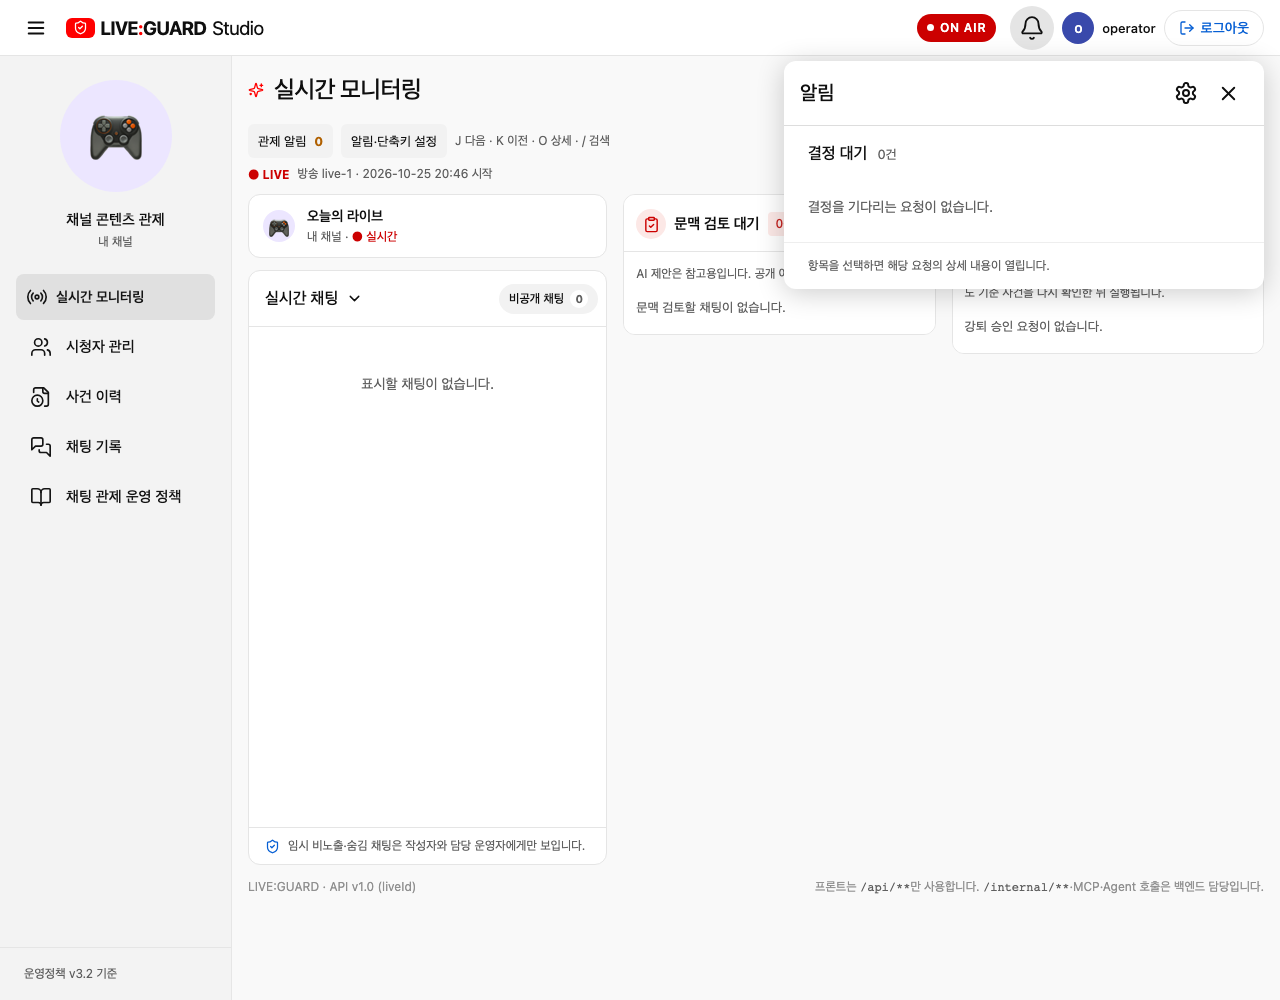
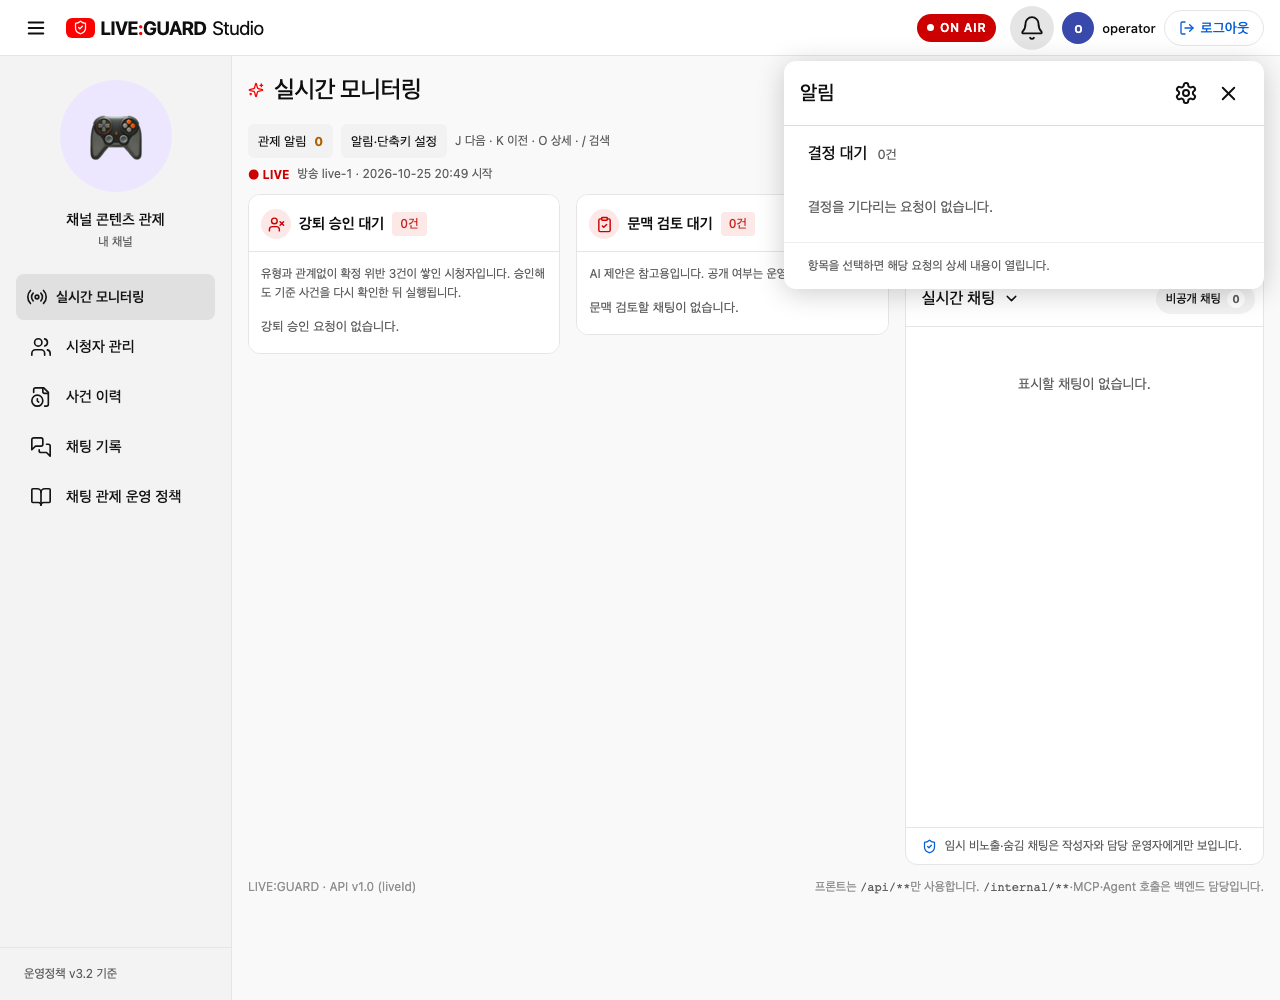
style: order monitoring columns as kick, context and chat

diff --git a/src/StudioScreen.vue b/src/StudioScreen.vue
@@ -140,7 +140,7 @@ function activeOf(kind: LiveReview['kind']) {
 const isOpen = (r: LiveReview) => activeOf(r.kind) === r.reviewId;
 // 두 열을 동시에 표시한다. 클릭·키보드 초점이 있는 열에서 탐색 단축키를 적용한다.
 const queueTab = ref<LiveReview['kind'] | null>(null);
-const monitorQueues=computed(()=>[queues.value[1],queues.value[0]]);
+const monitorQueues=computed(()=>[queues.value[0],queues.value[1]]);
 const shownQueue = computed(() => { const kind = queueTab.value ?? (queues.value[1].items.length ? 'CONTEXT' : 'KICK'); return queues.value.find(q => q.kind === kind)!; });
 function toggleReview(r: LiveReview) { openIds[r.kind] = isOpen(r) ? '' : r.reviewId; }
 // 결정은 하나를 고른 뒤 제출한다. 위반 확정을 고를 때만 위반 유형을 고른다.
@@ -365,16 +365,6 @@ const dictRows: { name: string; words: string[]; result: string }[] = [
 
             <p v-if="arrivalAnnouncement" class="monitor-arrival-announcement" role="status">{{arrivalAnnouncement}}</p>
             <div v-if="page==='monitor'" class="live-monitoring-grid queue-page">
-            <section class="monitor-grid chat-only">
-              <div class="stream-panel card"><div class="stream-caption"><span class="yt-channel-avatar">🎮</span><div><b>{{mock ? '오늘도 게임하는 날! 같이 놀아요 🎮' : '오늘의 라이브'}}</b><small>{{channelName}} · <span class="live-badge">{{ended ? '방송 종료' : '● 실시간'}}</span></small></div></div></div>
-              <div class="chat-panel card"><div class="panel-heading"><h2>실시간 채팅 <ChevronDown :size="17"/></h2><div class="panel-heading-end"><button v-if="feedOn !== null" class="icon-control" :class="{on: feedOn}" :title="feedOn ? '채팅 흐름 일시정지 (MOCK)' : '채팅 흐름 재생 (MOCK)'" :aria-pressed="feedOn" @click="emit('toggleFeed')"><Pause v-if="feedOn" :size="17"/><Play v-else :size="17"/></button><button class="blocked-toggle" :class="{on: filter==='private'}" :aria-pressed="filter==='private'" @click="filter = filter==='all' ? 'private' : 'all'" :title="filter==='all' ? '임시 비노출·숨김 채팅만 보기' : '전체 채팅 보기'">비공개 채팅 <b>{{privateCount}}</b></button></div></div>
-                <div class="scan-wrap"><span class="ai-scan" aria-hidden="true"/><div ref="chatRef" class="chat-list" @scroll.passive="onScroll">
-                  <div v-for="m in shownMessages" :key="m.messageId" :data-message-id="m.messageId" class="chat-row" :class="{held: m.visibility==='HELD', hidden: m.visibility==='HIDDEN'}"><span class="chat-avatar" :style="{background: avatarColor(m.authorAlias)}">{{m.authorAlias.slice(0,1)}}</span><span class="chat-line"><b>{{m.authorAlias}}</b><span class="chat-text">{{m.text}}</span></span><span v-if="m.visibility!=='PUBLIC'" class="state-pill" :class="m.visibility.toLowerCase()">{{visibilityLabels[m.visibility]}}</span><time class="chat-time" :datetime="iso(m.sentAt)" :title="asTime(m.sentAt)">{{hourMinute(iso(m.sentAt))}}</time></div>
-                  <div v-if="!shownMessages.length" class="empty-block">표시할 채팅이 없습니다.</div></div>
-                  <button v-if="unread" class="new-msg-pill" @click="toBottom()">새 메시지 {{unread}}개 <ChevronDown :size="15"/></button></div>
-                <div class="chat-footer"><div class="ai-notice"><ShieldCheck :size="15"/> 임시 비노출·숨김 채팅은 작성자와 담당 운영자에게만 보입니다.</div><details v-if="$slots.demo" class="demo-fold"><summary>목업 빠른 시연</summary><slot name="demo"/></details></div>
-              </div>
-            </section>
                 <section v-for="q in monitorQueues" :key="q.kind" class="hitl-section decision-queue" :class="q.kind.toLowerCase()" :aria-label="q.title" @focusin="queueTab=q.kind" @click="queueTab=q.kind">
                   <header class="section-head"><span class="section-icon human"><UserX v-if="q.kind==='KICK'" :size="17"/><ClipboardCheck v-else :size="17"/></span><h2>{{q.title}}</h2><span class="pending-count">{{q.items.length}}건</span><span v-if="q.items.some(r=>freshReviews.has(r.reviewId))" class="queue-new-indicator">새 요청</span></header>
                   <p class="queue-note">{{q.note}}</p>
@@ -416,6 +406,16 @@ const dictRows: { name: string; words: string[]; result: string }[] = [
                     </div>
                   </article>
                 </section>
+            <section class="monitor-grid chat-only">
+              <div class="stream-panel card"><div class="stream-caption"><span class="yt-channel-avatar">🎮</span><div><b>{{mock ? '오늘도 게임하는 날! 같이 놀아요 🎮' : '오늘의 라이브'}}</b><small>{{channelName}} · <span class="live-badge">{{ended ? '방송 종료' : '● 실시간'}}</span></small></div></div></div>
+              <div class="chat-panel card"><div class="panel-heading"><h2>실시간 채팅 <ChevronDown :size="17"/></h2><div class="panel-heading-end"><button v-if="feedOn !== null" class="icon-control" :class="{on: feedOn}" :title="feedOn ? '채팅 흐름 일시정지 (MOCK)' : '채팅 흐름 재생 (MOCK)'" :aria-pressed="feedOn" @click="emit('toggleFeed')"><Pause v-if="feedOn" :size="17"/><Play v-else :size="17"/></button><button class="blocked-toggle" :class="{on: filter==='private'}" :aria-pressed="filter==='private'" @click="filter = filter==='all' ? 'private' : 'all'" :title="filter==='all' ? '임시 비노출·숨김 채팅만 보기' : '전체 채팅 보기'">비공개 채팅 <b>{{privateCount}}</b></button></div></div>
+                <div class="scan-wrap"><span class="ai-scan" aria-hidden="true"/><div ref="chatRef" class="chat-list" @scroll.passive="onScroll">
+                  <div v-for="m in shownMessages" :key="m.messageId" :data-message-id="m.messageId" class="chat-row" :class="{held: m.visibility==='HELD', hidden: m.visibility==='HIDDEN'}"><span class="chat-avatar" :style="{background: avatarColor(m.authorAlias)}">{{m.authorAlias.slice(0,1)}}</span><span class="chat-line"><b>{{m.authorAlias}}</b><span class="chat-text">{{m.text}}</span></span><span v-if="m.visibility!=='PUBLIC'" class="state-pill" :class="m.visibility.toLowerCase()">{{visibilityLabels[m.visibility]}}</span><time class="chat-time" :datetime="iso(m.sentAt)" :title="asTime(m.sentAt)">{{hourMinute(iso(m.sentAt))}}</time></div>
+                  <div v-if="!shownMessages.length" class="empty-block">표시할 채팅이 없습니다.</div></div>
+                  <button v-if="unread" class="new-msg-pill" @click="toBottom()">새 메시지 {{unread}}개 <ChevronDown :size="15"/></button></div>
+                <div class="chat-footer"><div class="ai-notice"><ShieldCheck :size="15"/> 임시 비노출·숨김 채팅은 작성자와 담당 운영자에게만 보입니다.</div><details v-if="$slots.demo" class="demo-fold"><summary>목업 빠른 시연</summary><slot name="demo"/></details></div>
+              </div>
+            </section>
             </div>
 
             <ViewerManage v-else-if="page==='viewers'" :rows="viewerRows" :busy="busy || ended" scope="현재 방송" @decide="onViewerDecide" @revoke="onViewerRevoke"/>

diff --git a/src/style.css b/src/style.css
@@ -1201,7 +1201,7 @@ code{font-family:'Roboto Mono',ui-monospace,Consolas,monospace}
 @media(max-width:380px){.studio-shell .topbar{padding-left:8px;padding-right:8px}.studio-shell .topbar-title{gap:6px}.studio-shell .yt-logo b{font-size:16px}.studio-shell .mode-badge{padding:0 6px}}
 
 /* Live monitoring: chat, context decisions, kick approvals are visible together. */
-.live-monitoring-grid{display:grid;grid-template-columns:minmax(0,1.15fr) minmax(0,1fr) minmax(0,1fr);gap:16px;align-items:start;max-width:none}
+.live-monitoring-grid{display:grid;grid-template-columns:minmax(0,1fr) minmax(0,1fr) minmax(0,1.15fr);gap:16px;align-items:start;max-width:none}
 .live-monitoring-grid>*{min-width:0}
 .live-monitoring-grid .monitor-grid.chat-only{height:auto;min-height:0;gap:12px;grid-template-rows:auto auto}
 .live-monitoring-grid .monitor-grid .chat-panel{min-height:420px}

diff --git a/docs/api-console-parity.md b/docs/api-console-parity.md
@@ -6,14 +6,14 @@
 
 5173번 Vite 개발 서버는 소스 변경을 바로 반영하지만, 3000번은 Docker 안의 정적 빌드를 제공합니다. 이전 3000번 자산에는 종·통합 화면·OFF AIR 코드가 없었습니다. 프론트엔드만 `docker compose build frontend`와 `docker compose up -d --no-deps frontend`로 갱신했습니다. 빌드 소스는 `liveguard-fe`, `VITE_USE_API=true`입니다. BE·Agent·DB는 재시작하지 않았습니다.
 
-현재 3000번 자산은 `/assets/index-DE2gPomm.js`이며 종·통합 화면·OFF AIR 코드가 포함돼 있습니다. 향후 프론트 소스를 수정해도 Docker는 자동 갱신되지 않으므로 3000번 반영을 다시 확인해야 합니다.
+현재 3000번 자산은 `/assets/index-mVaK6NcA.js`이며 종·통합 화면·OFF AIR 코드가 포함돼 있습니다. 향후 프론트 소스를 수정해도 Docker는 자동 갱신되지 않으므로 3000번 반영을 다시 확인해야 합니다.
 
 ## 실제 API 화면 체크
 
 | 오늘 변경한 항목 | 확인 결과 |
 | --- | --- |
 | 메뉴 통합 | 실시간 모니터링 한 개, 별도 결정 대기 메뉴 없음 |
-| 3열 | 방송 정보·채팅 / 문맥 검토 대기 / 강퇴 승인 대기 동시 표시 |
+| 3열 | 강퇴 승인 대기 / 문맥 검토 대기 / 방송 정보·채팅 순서로 동시 표시 |
 | 종 알림 | 우상단 스트리머 프로필·이름 왼쪽에 종 표시. 대기 0건에서 클릭 시 빈 상세 목록 표시 |
 | 알림 설정 | 톱니바퀴로 기존 알림·단축키 설정 열림 |
 | 정책 문구 | ‘채팅 관제 운영 정책’, v3.2 SP-3.1·A-28 및 CP-3.3 안내 표시 |

diff --git a/docs/unified-live-monitoring.md b/docs/unified-live-monitoring.md
@@ -6,9 +6,9 @@
 
 | 화면 | 배치 |
 | --- | --- |
-| 데스크톱 1200px 이상 | 왼쪽 방송 정보·실시간 채팅 / 가운데 문맥 검토 대기 / 오른쪽 강퇴 승인 대기 |
-| 761–1199px | 채팅을 위에 넓게 배치하고 문맥·강퇴를 아래 2열로 표시 |
-| 760px 이하 | 채팅 → 문맥 검토 → 강퇴 승인 순서로 세로 배치 |
+| 데스크톱 1200px 이상 | 왼쪽 강퇴 승인 대기 / 가운데 문맥 검토 대기 / 오른쪽 방송 정보·실시간 채팅 |
+| 761–1199px | 강퇴·문맥을 위에 2열로 배치하고 채팅을 아래에 넓게 표시 |
+| 760px 이하 | 강퇴 승인 → 문맥 검토 → 채팅 순서로 세로 배치 |
 
 두 대기열은 각자 한 건씩 펼칩니다. 오래 기다린 순서는 유지하고, 요청이 와도 선택한 결정 값이나 초점을 바꾸지 않습니다. 데스크톱에서는 채팅과 각 대기열을 독립적으로 스크롤하며, 좁은 화면에서는 검토 내용이 페이지 흐름에 따라 펼쳐집니다. 강퇴의 기준 사건·근거·승인/기각 절차는 유지합니다.
 
